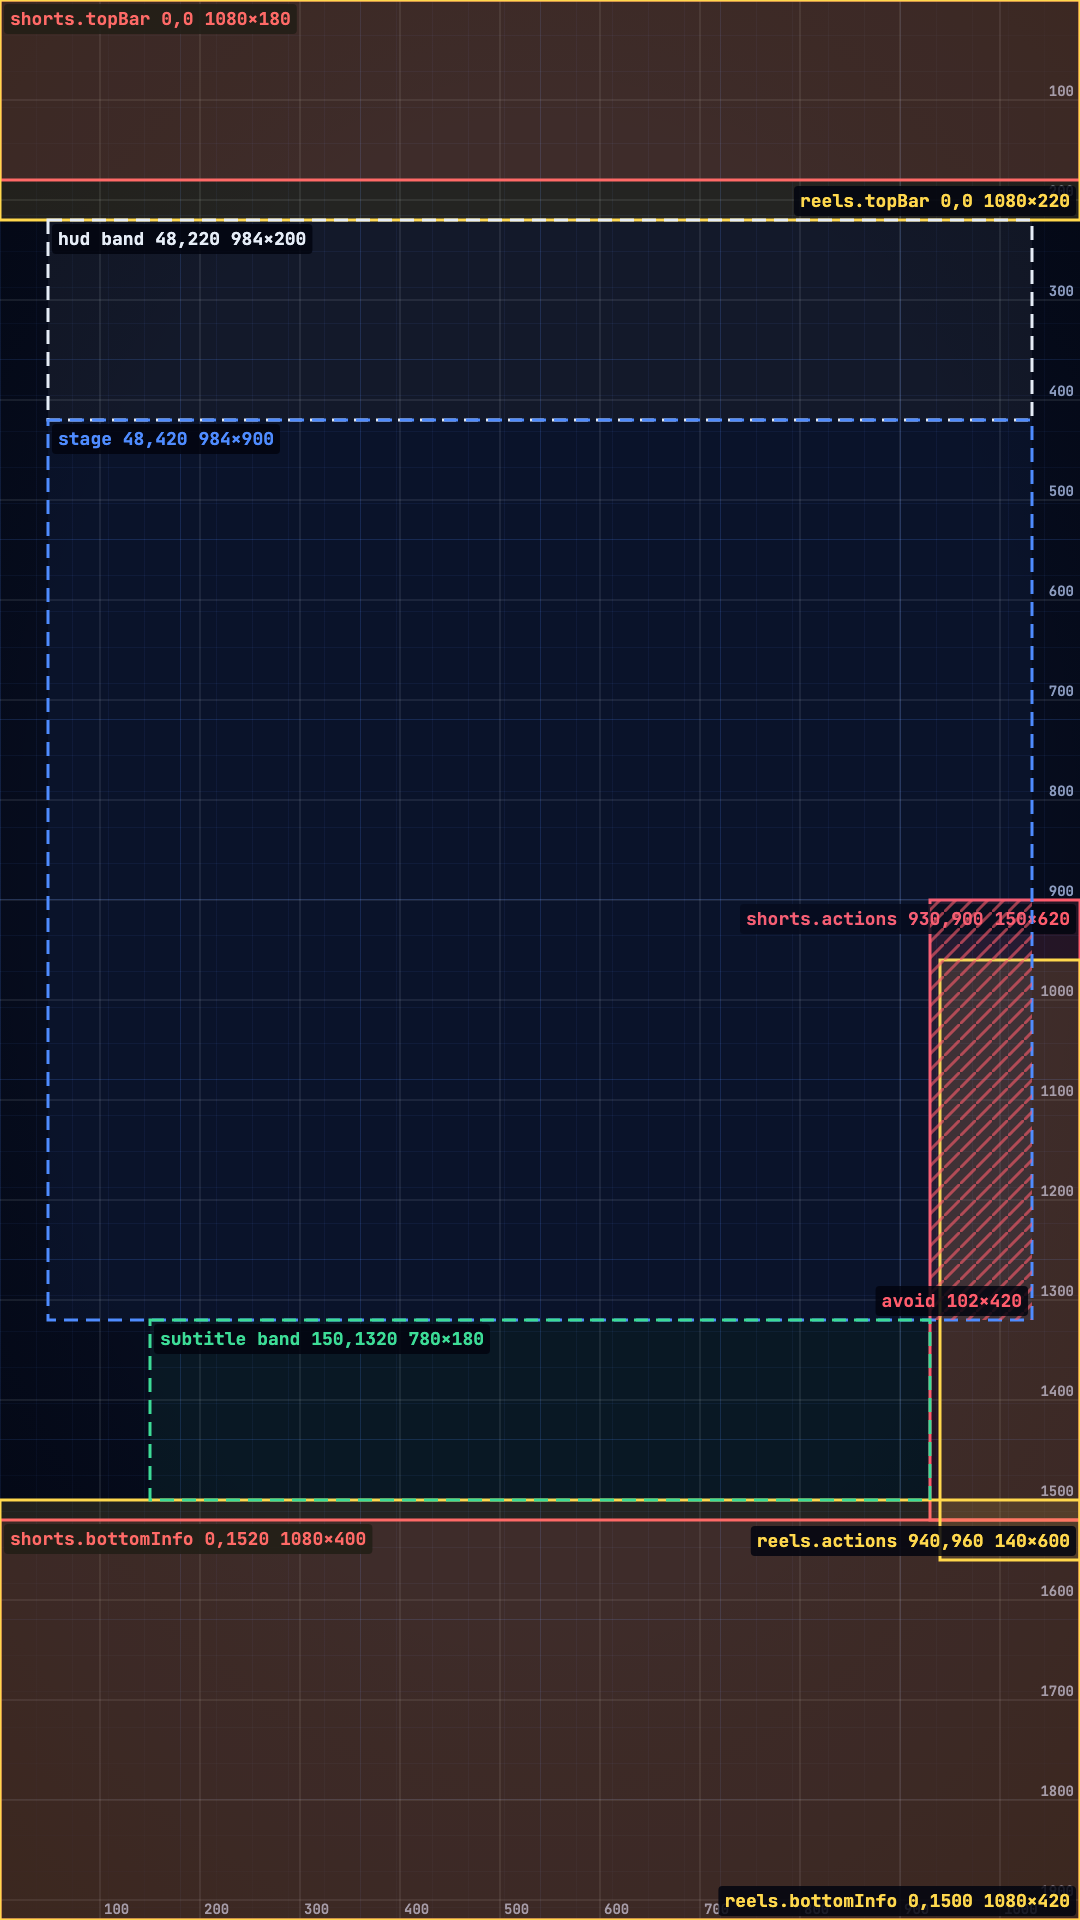
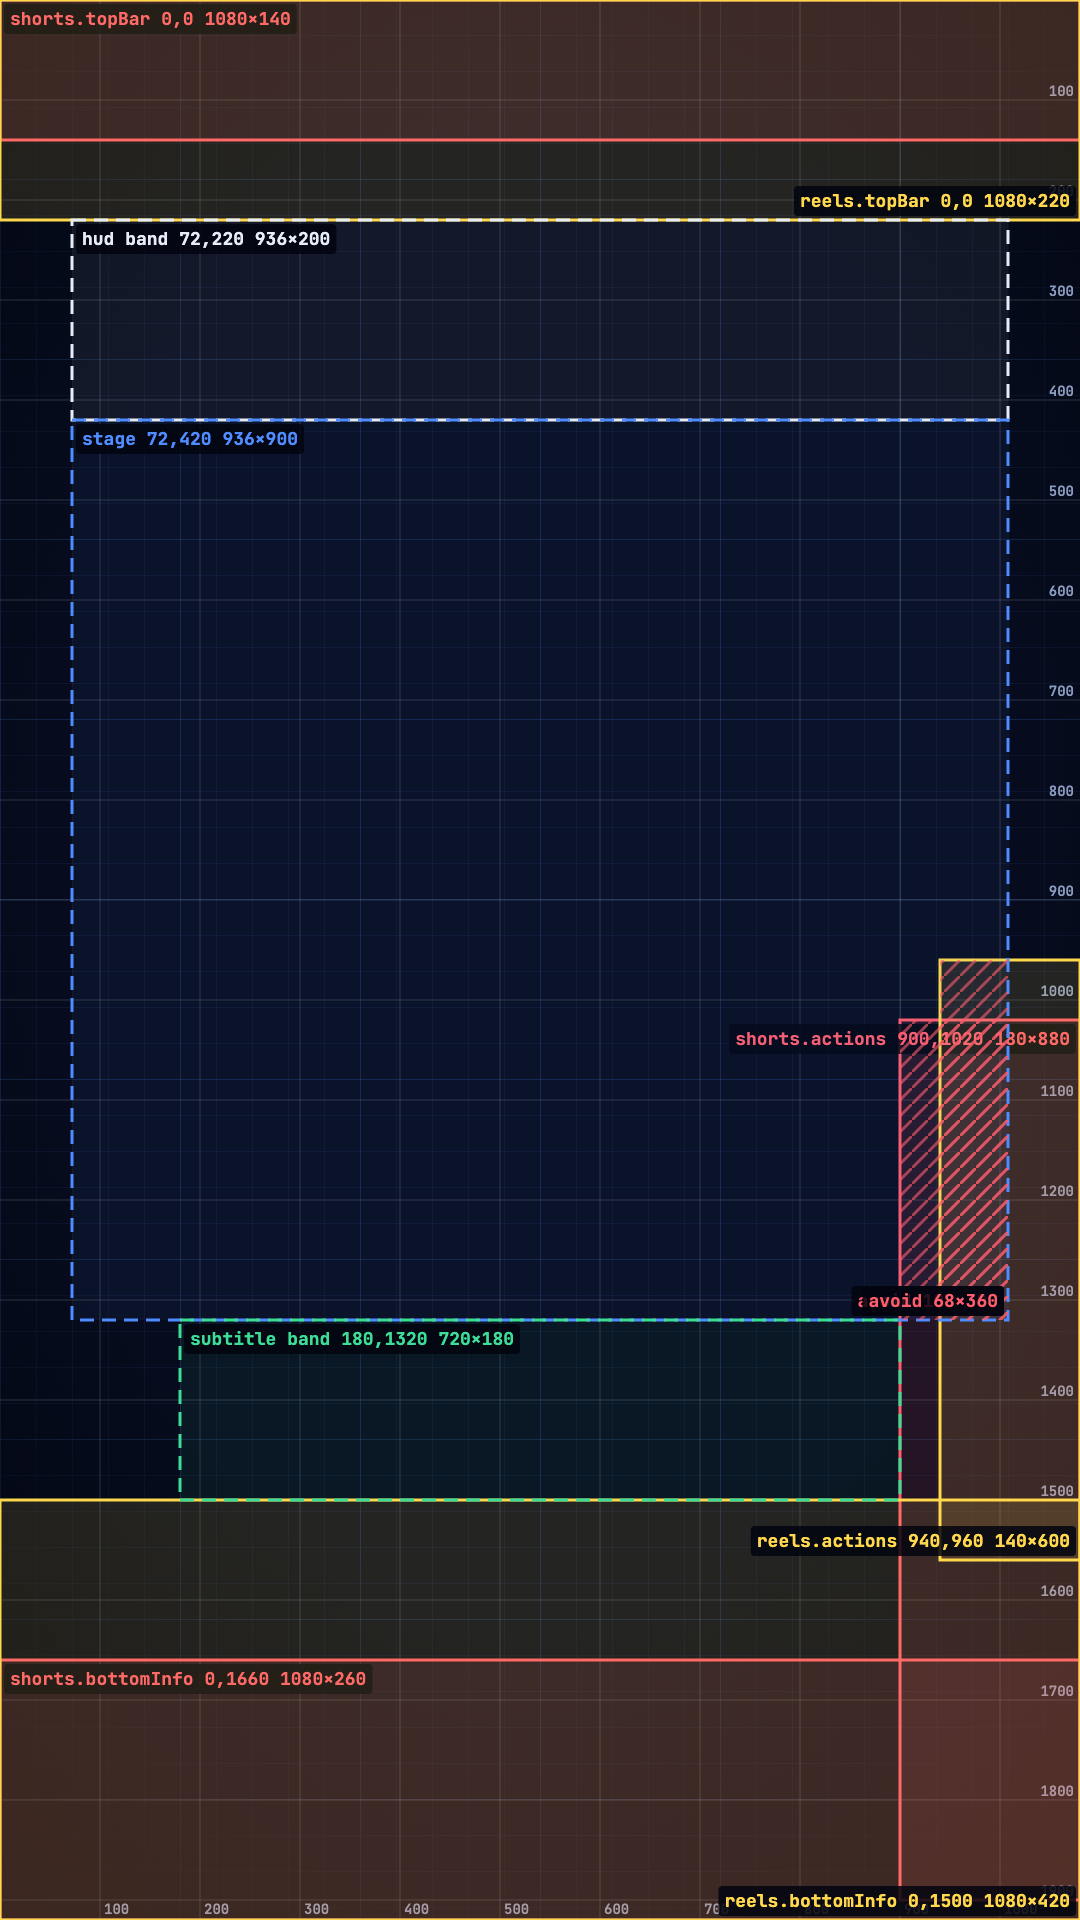
P1A.2: calibrate Shorts safe zones
Shorts exclusion zones measured on a 1080x2340 phone screenshot
(2026-11-18): topBar 140, actions x>=900 from y 1020, bottomInfo from
y 1660. Gutter widened to 72 to cover tall phones cropping ~40 px per
side. Reels zones are still starting values.

diff --git a/packages/renderer/src/theme/safe-area.test.ts b/packages/renderer/src/theme/safe-area.test.ts
@@ -61,14 +61,16 @@ describe.each(listThemes().map((t) => [t.id, t] as const))('safeAreas(%s)', (_id
 describe('blueprint-dark safe areas', () => {
   const areas = safeAreas(ThemeSchema.parse(blueprintDark));
 
-  it('derives the planned geometry from the starting zones', () => {
-    expect(areas.hudBand).toEqual({ x: 48, y: 220, width: 984, height: 200 });
-    expect(areas.stage).toEqual({ x: 48, y: 420, width: 984, height: 900 });
-    // Narrowed on both sides to clear the action buttons (x >= 930) and stay centred.
-    expect(areas.subtitleBand).toEqual({ x: 150, y: 1320, width: 780, height: 180 });
-    // reels.actions clips to a rect inside shorts.actions, so only one remains.
+  it('derives the planned geometry from the calibrated zones', () => {
+    // Reels still sets the HUD band's top (topBar 220) and the subtitle band's bottom (1500).
+    expect(areas.hudBand).toEqual({ x: 72, y: 220, width: 936, height: 200 });
+    expect(areas.stage).toEqual({ x: 72, y: 420, width: 936, height: 900 });
+    // Narrowed on both sides to clear the Shorts action buttons (x >= 900) and stay centred.
+    expect(areas.subtitleBand).toEqual({ x: 180, y: 1320, width: 720, height: 180 });
+    // reels.actions starts above shorts.actions, so neither contains the other.
     expect(areas.avoidZones).toEqual([
-      { id: 'shorts.actions', x: 930, y: 900, width: 102, height: 420 },
+      { id: 'shorts.actions', x: 900, y: 1020, width: 108, height: 300 },
+      { id: 'reels.actions', x: 940, y: 960, width: 68, height: 360 },
     ]);
   });
 });

diff --git a/packages/renderer/src/theme/themes/blueprint-dark.ts b/packages/renderer/src/theme/themes/blueprint-dark.ts
@@ -122,21 +122,25 @@ export const blueprintDark = {
   space: { xs: 8, sm: 16, md: 24, lg: 40, xl: 64, xxl: 96 },
   radius: { sm: 6, md: 12, lg: 20, pill: 999 },
   stroke: { hairline: 1.5, thin: 2, regular: 4, bold: 6 },
-  // Starting values, not yet calibrated: check with `calibrate:safe-area <shorts|reels>`.
+  // Check zones with `calibrate:safe-area <shorts|reels>`.
   safeArea: {
     platforms: {
+      // Measured on a 1080x2340 phone screenshot on 2026-11-18. Tall phones scale the 9:16
+      // frame to fill the height and crop ~40 px per side.
       shorts: {
-        topBar: { x: 0, y: 0, width: 1080, height: 180 },
-        actions: { x: 930, y: 900, width: 150, height: 620 },
-        bottomInfo: { x: 0, y: 1520, width: 1080, height: 400 },
+        topBar: { x: 0, y: 0, width: 1080, height: 140 },
+        actions: { x: 900, y: 1020, width: 180, height: 880 },
+        bottomInfo: { x: 0, y: 1660, width: 1080, height: 260 },
       },
+      // Starting values, not yet calibrated.
       reels: {
         topBar: { x: 0, y: 0, width: 1080, height: 220 },
         actions: { x: 940, y: 960, width: 140, height: 600 },
         bottomInfo: { x: 0, y: 1500, width: 1080, height: 420 },
       },
     },
-    gutter: 48,
+    // Covers the side cropping on tall phones.
+    gutter: 72,
     hudBand: 200,
     subtitleBand: 180,
   },
